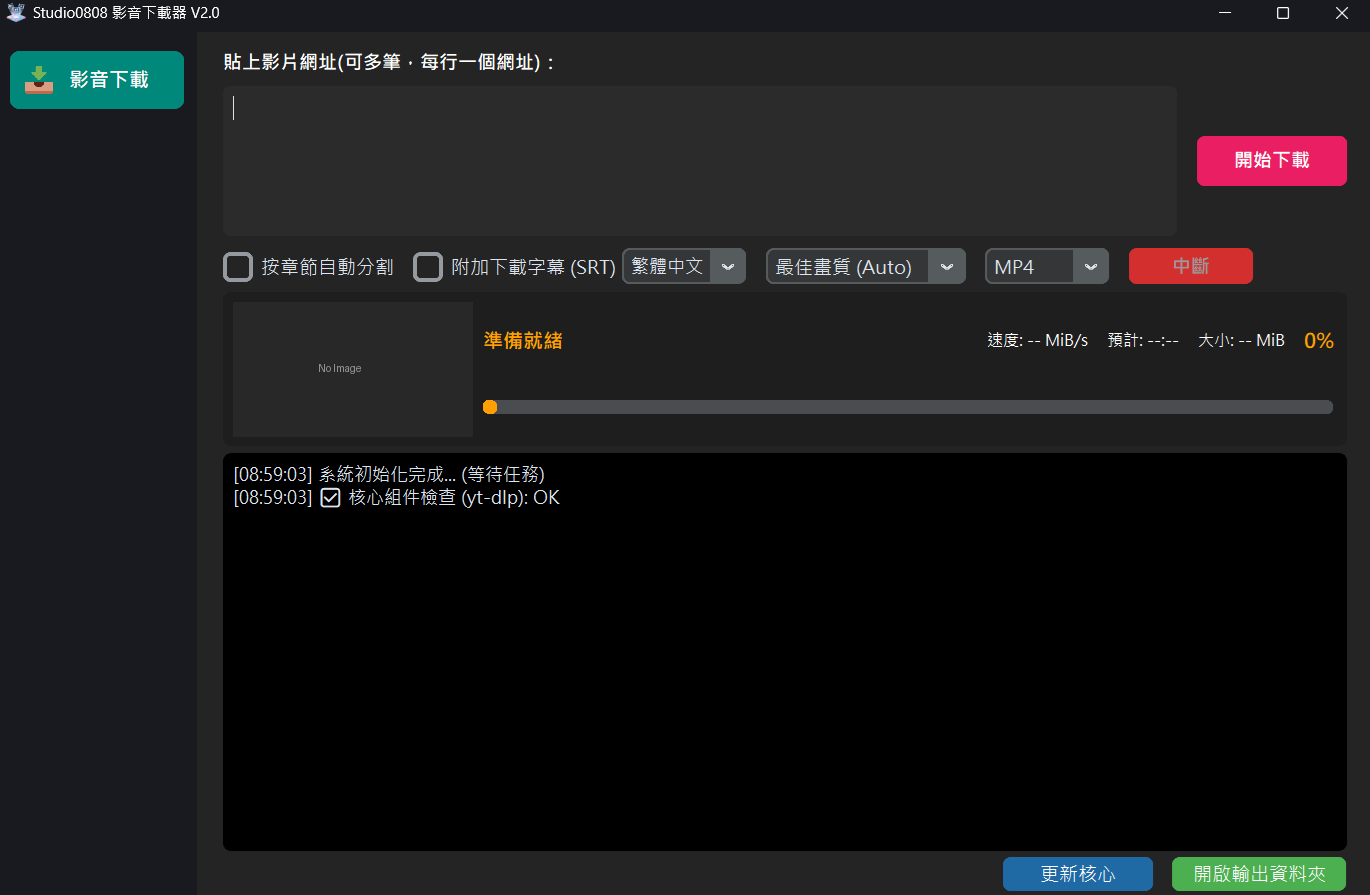
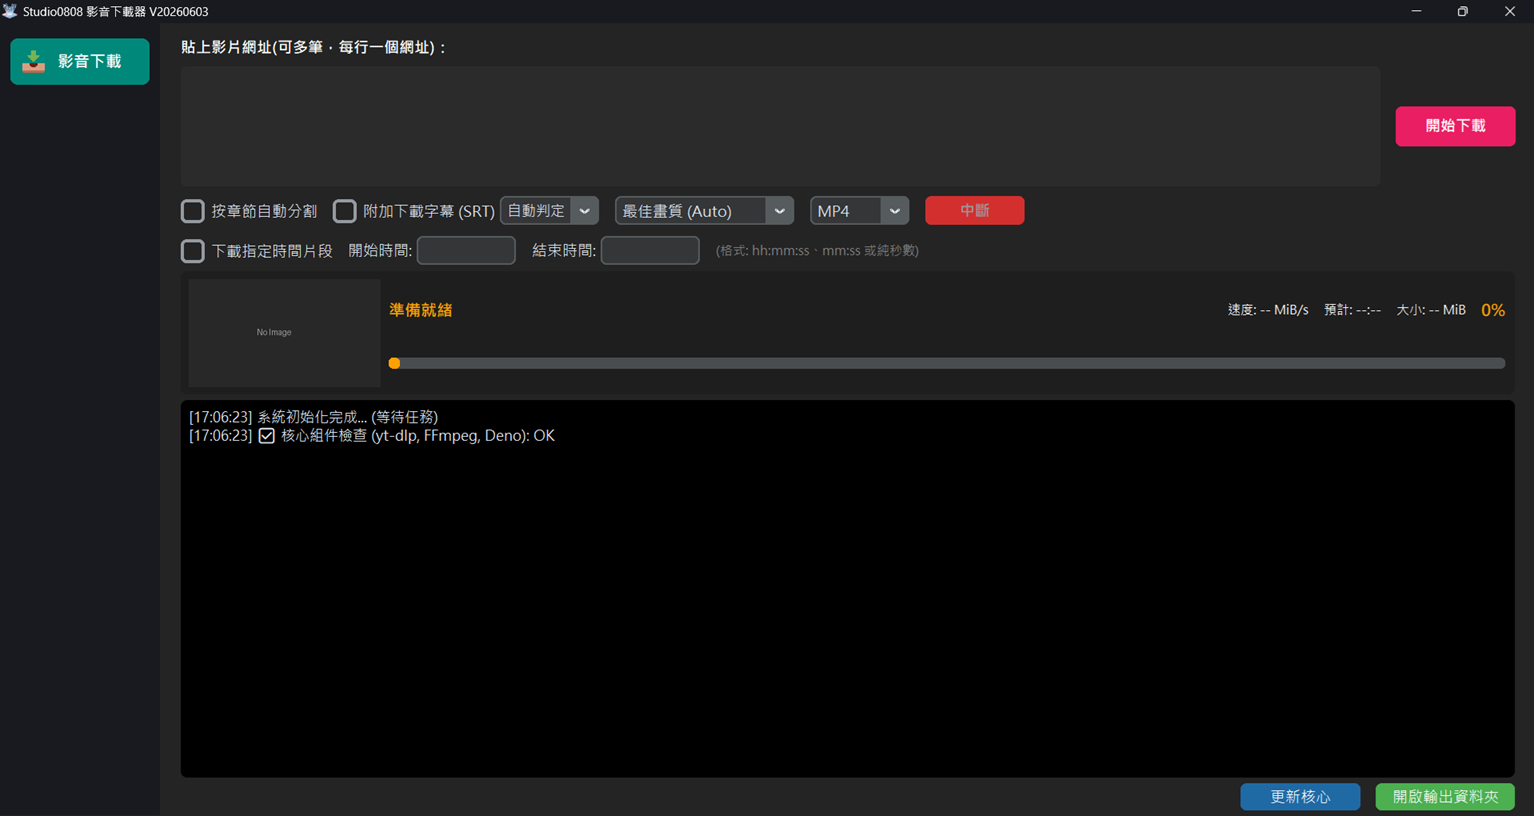
Add files via upload

diff --git a/Studio0808_Download.html b/Studio0808_Download.html
@@ -251,15 +251,12 @@
             </div>
         </div>
         <div style="display: flex; justify-content: center; gap: 15px; margin-top: 20px;">
-            <a href="https://drive.google.com/uc?export=download&id=1qsjQGtJDnWY47_YggVwU3zQOAzf5B3Z0"
-                target="_blank" class="btn" id="download-btn" style="margin-top: 0;">下載最新版本 (3.2版)</a>
-            <a href="https://drive.google.com/uc?export=download&id=1S-QREWEglohYerp3Z5LULYwuVX1TazLt"
-                target="_blank" class="btn btn-secondary" id="backup-btn" style="margin-top: 0; margin-left: 0;">備用載點
-                (3.2版)</a>
+            <a href="https://drive.google.com/file/d/1L-fNpuskGBmhJ6MmXR4PFfzv_0JE8H2B/view?usp=sharing"
+                target="_blank" class="btn" id="download-btn" style="margin-top: 0;">下載最新版本 (V20260603)</a>
         </div>
 
         <div style="margin-top: 15px; color: var(--text-muted); font-size: 0.9em; text-align: center;">
-            Released: 2026.03.24<br>
+            Released: 2026.06.03<br>
             <span style="color: #ffca28; font-weight: bold; margin-top: 5px; display: inline-block;">⚠️
                 若無法下載，請使用「無痕視窗」開啟網頁</span>
         </div>
@@ -294,6 +291,10 @@
                 <div class="feature-card feature-card-new">
                     <h3>✂️ 自動分割章節</h3>
                     <p>依據影片內建章節或說明欄時間軸，精準自動分割長影片，方便管理。</p>
+                </div>
+                <div class="feature-card feature-card-new">
+                    <h3>⏱️ 指定時間片段下載</h3>
+                    <p>支援設定「開始時間」與「結束時間」，精準裁剪並僅下載您所需要的影片片段。</p>
                 </div>
                 <div class="feature-card feature-card-new">
                     <h3>🔤 外掛字幕下載</h3>